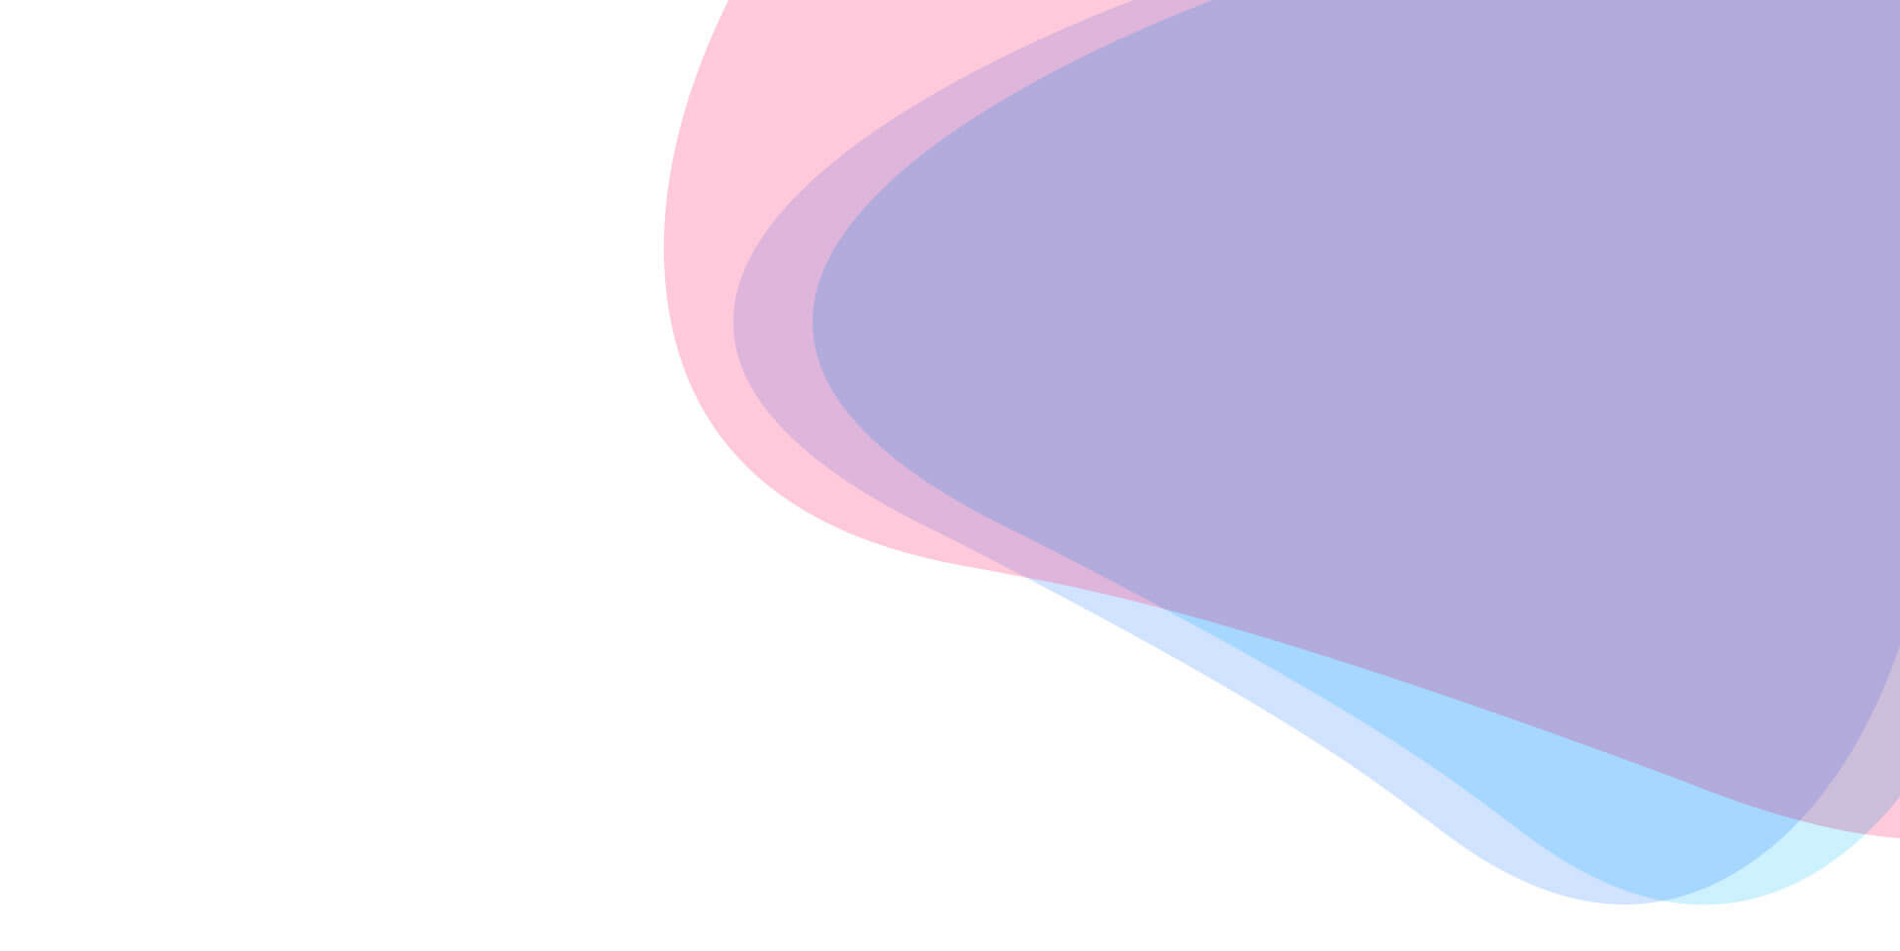
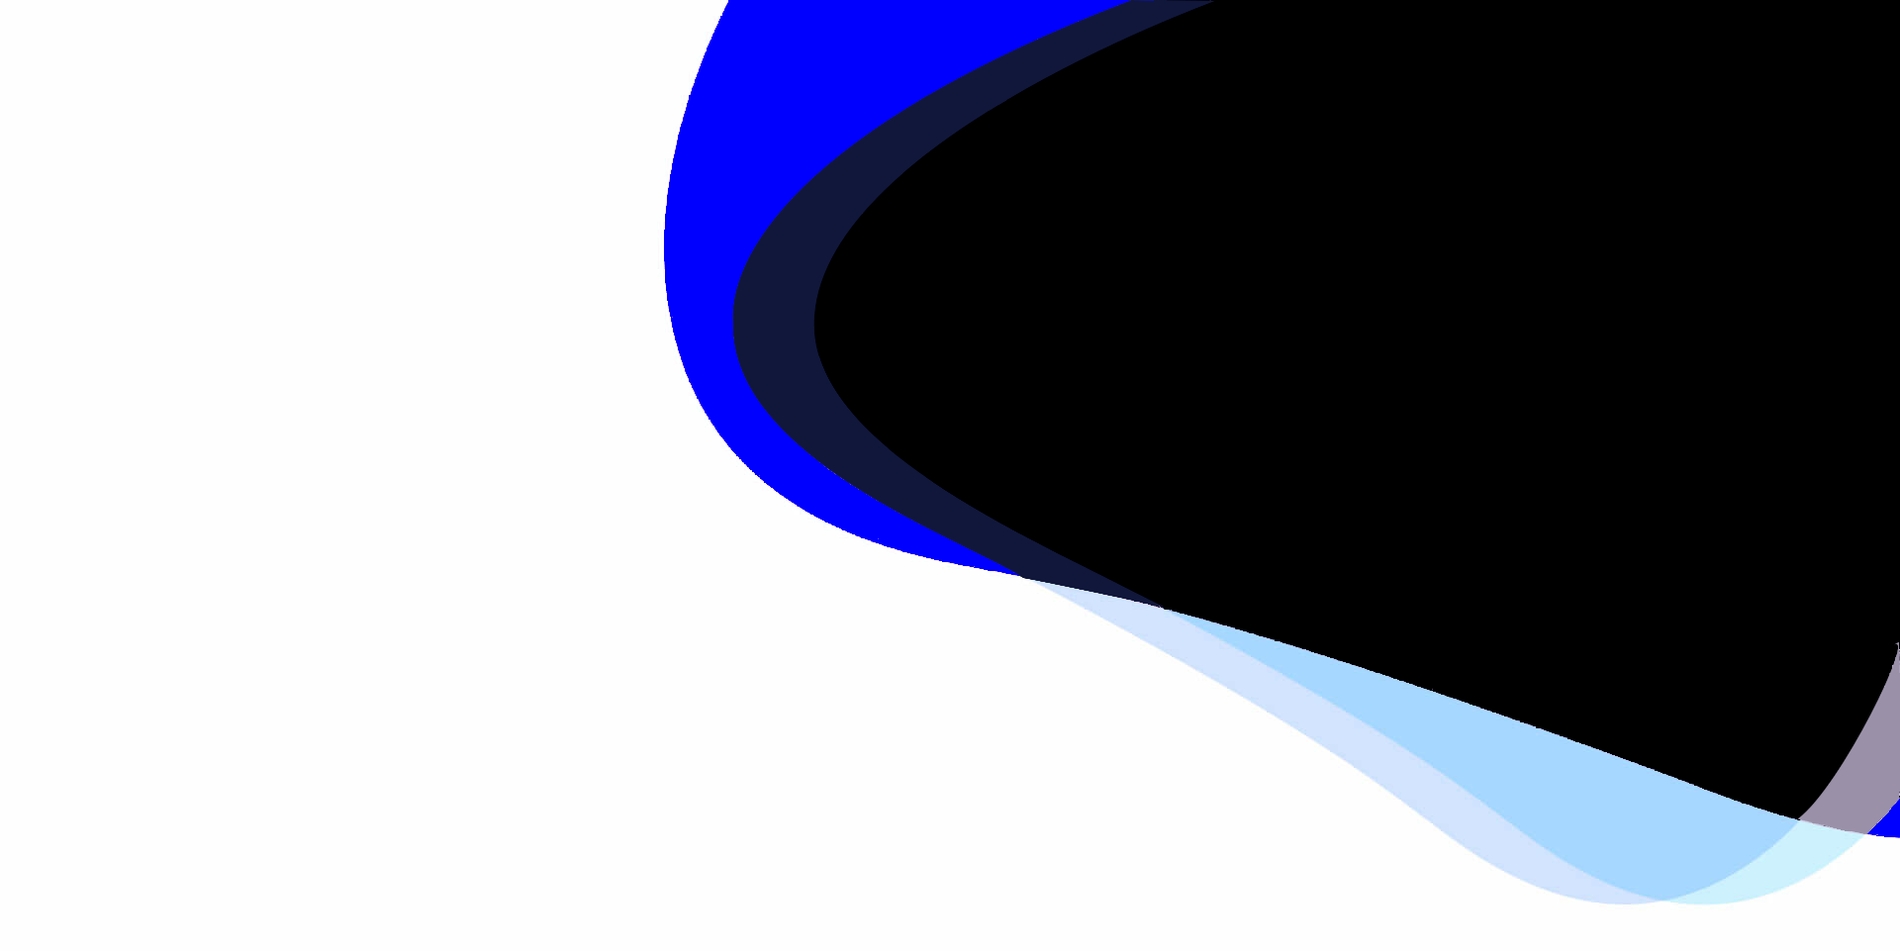
ultimate upload

diff --git a/index.html b/index.html
@@ -37,7 +37,7 @@
         <!--================Header Menu Area =================-->
         <header class="main_menu_area">
             <nav class="navbar navbar-expand-lg navbar-light bg-light">
-                <a class="navbar-brand" href="#"><img src="img/logo.png" width="130" height="43" alt=""></a>
+                <a class="navbar-brand" href="index.html"><img src="img/logo.png" width="130" height="43" alt=""></a>
                 <button class="navbar-toggler" type="button" data-toggle="collapse" data-target="#navbarSupportedContent" aria-controls="navbarSupportedContent" aria-expanded="false" aria-label="Toggle navigation">
                     <span></span>
                     <span></span>
@@ -46,9 +46,9 @@
 
                 <div class="collapse navbar-collapse" id="navbarSupportedContent">
                     <ul class="navbar-nav">
-                        <li class="nav-item active"><a class="nav-link" href="index.html">Inicio</a></li>
+                       
                         <li class="nav-item"><a class="nav-link" href="about-us.html">Nosotros</a></li>
-                        <li class="nav-item"><a class="nav-link" href="service.html">Servicios</a></li>
+                        <li class="nav-item"><a class="nav-link" href="service.html">Cursos</a></li>
                         <li class="nav-item"><a class="nav-link" href="portfolio.html">Portfolio</a></li>
                         <li class="nav-item dropdown submenu">
                             <a class="nav-link dropdown-toggle" href="#" id="navbarDropdown" role="button" data-toggle="dropdown" aria-haspopup="true" aria-expanded="false">
@@ -88,7 +88,7 @@
                             data-type="text" 
                             data-responsive_offset="on" 
                             data-frames="[{&quot;delay&quot;:10,&quot;speed&quot;:1500,&quot;frame&quot;:&quot;0&quot;,&quot;from&quot;:&quot;y:[-100%];z:0;rX:0deg;rY:0;rZ:0;sX:1;sY:1;skX:0;skY:0;&quot;,&quot;mask&quot;:&quot;x:0px;y:0px;s:inherit;e:inherit;&quot;,&quot;to&quot;:&quot;o:1;&quot;,&quot;ease&quot;:&quot;Power2.easeInOut&quot;},{&quot;delay&quot;:&quot;wait&quot;,&quot;speed&quot;:1500,&quot;frame&quot;:&quot;999&quot;,&quot;to&quot;:&quot;y:[175%];&quot;,&quot;mask&quot;:&quot;x:inherit;y:inherit;s:inherit;e:inherit;&quot;,&quot;ease&quot;:&quot;Power2.easeInOut&quot;}]"
-                            data-textAlign="['left','left','left','left','left','center']">Muestra tu Negocio<br />al Mundo</div>
+                            data-textAlign="['left','left','left','left','left','center']">Te preparamos<br />Para un mejor futuro</div>
                             
                             <div class="tp-caption tp-resizeme secand_text" 
                                 data-x="['left','left','left','left','15','center']" 
@@ -104,8 +104,7 @@
                                 data-responsive_offset="on"
                                 data-transform_idle="o:1;"
                                 data-frames="[{&quot;delay&quot;:10,&quot;speed&quot;:1500,&quot;frame&quot;:&quot;0&quot;,&quot;from&quot;:&quot;y:[100%];z:0;rX:0deg;rY:0;rZ:0;sX:1;sY:1;skX:0;skY:0;opacity:0;&quot;,&quot;mask&quot;:&quot;x:0px;y:[100%];s:inherit;e:inherit;&quot;,&quot;to&quot;:&quot;o:1;&quot;,&quot;ease&quot;:&quot;Power2.easeInOut&quot;},{&quot;delay&quot;:&quot;wait&quot;,&quot;speed&quot;:1500,&quot;frame&quot;:&quot;999&quot;,&quot;to&quot;:&quot;y:[175%];&quot;,&quot;mask&quot;:&quot;x:inherit;y:inherit;s:inherit;e:inherit;&quot;,&quot;ease&quot;:&quot;Power2.easeInOut&quot;}]"
-                                data-textAlign="['left','left','left','left','left','center']">
-                            </div>
+                                data-textAlign="['left','left','left','left','left','center']"></div>
                             
                             <div class="tp-caption tp-resizeme" 
                                 data-x="['left','left','left','left','15','center']" data-hoffset="['0','80','80','0']" 
@@ -119,7 +118,7 @@
                                 data-type="text" 
                                 data-responsive_offset="on" 
                                 data-frames="[{&quot;delay&quot;:10,&quot;speed&quot;:1500,&quot;frame&quot;:&quot;0&quot;,&quot;from&quot;:&quot;y:[100%];z:0;rX:0deg;rY:0;rZ:0;sX:1;sY:1;skX:0;skY:0;opacity:0;&quot;,&quot;mask&quot;:&quot;x:0px;y:[100%];s:inherit;e:inherit;&quot;,&quot;to&quot;:&quot;o:1;&quot;,&quot;ease&quot;:&quot;Power2.easeInOut&quot;},{&quot;delay&quot;:&quot;wait&quot;,&quot;speed&quot;:1500,&quot;frame&quot;:&quot;999&quot;,&quot;to&quot;:&quot;y:[175%];&quot;,&quot;mask&quot;:&quot;x:inherit;y:inherit;s:inherit;e:inherit;&quot;,&quot;ease&quot;:&quot;Power2.easeInOut&quot;}]">
-                                <a class="more_btn" href="#">Discover</a>
+                                
                             </div>
                             <div class="tp-caption tp-resizeme single_img" 
                             data-x="['right','right','right','right','right','right']" 
@@ -139,76 +138,7 @@
                             </div>
                         </div>
                     </li>
-                    <li data-index="rs-1588" data-transition="fade" data-slotamount="default" data-hideafterloop="0" data-hideslideonmobile="off"  data-easein="default" data-easeout="default" data-masterspeed="300" data-rotate="0"  data-saveperformance="off"  data-title="Creative" data-param1="01" data-param2="" data-param3="" data-param4="" data-param5="" data-param6="" data-param7="" data-param8="" data-param9="" data-param10="" data-description="">
-                    <!-- LAYERS -->
-                        <!-- LAYERS -->
-
-                        <!-- LAYER NR. 1 -->
-                        <div class="slider_text_box">
-                            <div class="tp-caption tp-resizeme first_text" 
-                            data-x="['left','left','left','left','15','center']" 
-                            data-hoffset="['0','80','80','0']" 
-                            data-y="['top','top','top','top']" 
-                            data-voffset="['400','400','400','250','180','180']" 
-                            data-fontsize="['72','72','72','50','50','30']"
-                            data-lineheight="['82','82','82','62','62','42']"
-                            data-width="['none']"
-                            data-height="none"
-                            data-whitespace="nowrape"
-                            data-type="text" 
-                            data-responsive_offset="on" 
-                            data-frames="[{&quot;delay&quot;:10,&quot;speed&quot;:1500,&quot;frame&quot;:&quot;0&quot;,&quot;from&quot;:&quot;y:[-100%];z:0;rX:0deg;rY:0;rZ:0;sX:1;sY:1;skX:0;skY:0;&quot;,&quot;mask&quot;:&quot;x:0px;y:0px;s:inherit;e:inherit;&quot;,&quot;to&quot;:&quot;o:1;&quot;,&quot;ease&quot;:&quot;Power2.easeInOut&quot;},{&quot;delay&quot;:&quot;wait&quot;,&quot;speed&quot;:1500,&quot;frame&quot;:&quot;999&quot;,&quot;to&quot;:&quot;y:[175%];&quot;,&quot;mask&quot;:&quot;x:inherit;y:inherit;s:inherit;e:inherit;&quot;,&quot;ease&quot;:&quot;Power2.easeInOut&quot;}]"
-                            data-textAlign="['left','left','left','left','left','center']">Diseños <br />Personalizados</div>
-                            
-                            <div class="tp-caption tp-resizeme secand_text" 
-                                data-x="['left','left','left','left','15','center']" 
-                                data-hoffset="['0','80','80','0']" 
-                                data-y="['top','top','top','top']" 
-                                data-voffset="['575','575','575','400','320','300']"  
-                                data-fontsize="['24','24','24','18','16','16']"
-                                data-lineheight="['36','36','36','26','26','26']"
-                                data-width="['none','none','none','none','none']"
-                                data-height="none"
-                                data-whitespace="nowrape"
-                                data-type="text" 
-                                data-responsive_offset="on"
-                                data-transform_idle="o:1;"
-                                data-frames="[{&quot;delay&quot;:10,&quot;speed&quot;:1500,&quot;frame&quot;:&quot;0&quot;,&quot;from&quot;:&quot;y:[100%];z:0;rX:0deg;rY:0;rZ:0;sX:1;sY:1;skX:0;skY:0;opacity:0;&quot;,&quot;mask&quot;:&quot;x:0px;y:[100%];s:inherit;e:inherit;&quot;,&quot;to&quot;:&quot;o:1;&quot;,&quot;ease&quot;:&quot;Power2.easeInOut&quot;},{&quot;delay&quot;:&quot;wait&quot;,&quot;speed&quot;:1500,&quot;frame&quot;:&quot;999&quot;,&quot;to&quot;:&quot;y:[175%];&quot;,&quot;mask&quot;:&quot;x:inherit;y:inherit;s:inherit;e:inherit;&quot;,&quot;ease&quot;:&quot;Power2.easeInOut&quot;}]"
-                                data-textAlign="['left','left','left','left','left','center']">
-                            </div>
-                            
-                            <div class="tp-caption tp-resizeme" 
-                                data-x="['left','left','left','left','15','center']" data-hoffset="['0','80','80','0']" 
-                                data-y="['top','top','top','top']" 
-                                data-voffset="['670','670','670','480','370','350']" 
-                                data-fontsize="['14','14','14','14']"
-                                data-lineheight="['46','46','46','46']"
-                                data-width="none"
-                                data-height="none"
-                                data-whitespace="nowrap"
-                                data-type="text" 
-                                data-responsive_offset="on" 
-                                data-frames="[{&quot;delay&quot;:10,&quot;speed&quot;:1500,&quot;frame&quot;:&quot;0&quot;,&quot;from&quot;:&quot;y:[100%];z:0;rX:0deg;rY:0;rZ:0;sX:1;sY:1;skX:0;skY:0;opacity:0;&quot;,&quot;mask&quot;:&quot;x:0px;y:[100%];s:inherit;e:inherit;&quot;,&quot;to&quot;:&quot;o:1;&quot;,&quot;ease&quot;:&quot;Power2.easeInOut&quot;},{&quot;delay&quot;:&quot;wait&quot;,&quot;speed&quot;:1500,&quot;frame&quot;:&quot;999&quot;,&quot;to&quot;:&quot;y:[175%];&quot;,&quot;mask&quot;:&quot;x:inherit;y:inherit;s:inherit;e:inherit;&quot;,&quot;ease&quot;:&quot;Power2.easeInOut&quot;}]">
-                                <a class="more_btn" href="#">Discover</a>
-                            </div>
-                            <div class="tp-caption tp-resizeme single_img" 
-                            data-x="['right','right','right','right','right','right']" 
-                            data-hoffset="['0','0','0','0']" 
-                            data-y="['top','top','top','top']" 
-                            data-voffset="['180','180','180','180','0']" 
-                            data-fontsize="['65','65','60','40','25']"
-                            data-lineheight="['75','75','75','50','35']"
-                            data-width="['485','485','485','485','485']"
-                            data-height="none"
-                            data-whitespace="normal"
-                            data-type="text" 
-                            data-responsive_offset="on" 
-                            data-frames="[{&quot;delay&quot;:10,&quot;speed&quot;:1500,&quot;frame&quot;:&quot;0&quot;,&quot;from&quot;:&quot;y:[-100%];z:0;rX:0deg;rY:0;rZ:0;sX:1;sY:1;skX:0;skY:0;&quot;,&quot;mask&quot;:&quot;x:0px;y:0px;s:inherit;e:inherit;&quot;,&quot;to&quot;:&quot;o:1;&quot;,&quot;ease&quot;:&quot;Power2.easeInOut&quot;},{&quot;delay&quot;:&quot;wait&quot;,&quot;speed&quot;:1500,&quot;frame&quot;:&quot;999&quot;,&quot;to&quot;:&quot;y:[175%];&quot;,&quot;mask&quot;:&quot;x:inherit;y:inherit;s:inherit;e:inherit;&quot;,&quot;ease&quot;:&quot;Power2.easeInOut&quot;}]"
-                            data-textAlign="['left','left','left','left','left','center']">
-                                <img src="img/home-slider/slider-m-1.png" alt="">
-                            </div>
-                        </div>
-                    </li>
+    
                     <li data-index="rs-1589" data-transition="fade" data-slotamount="default" data-hideafterloop="0" data-hideslideonmobile="off"  data-easein="default" data-easeout="default" data-masterspeed="300" data-rotate="0"  data-saveperformance="off"  data-title="Creative" data-param1="01" data-param2="" data-param3="" data-param4="" data-param5="" data-param6="" data-param7="" data-param8="" data-param9="" data-param10="" data-description="">
                     <!-- LAYERS -->
                         <!-- LAYERS -->
@@ -228,7 +158,7 @@
                             data-type="text" 
                             data-responsive_offset="on" 
                             data-frames="[{&quot;delay&quot;:10,&quot;speed&quot;:1500,&quot;frame&quot;:&quot;0&quot;,&quot;from&quot;:&quot;y:[-100%];z:0;rX:0deg;rY:0;rZ:0;sX:1;sY:1;skX:0;skY:0;&quot;,&quot;mask&quot;:&quot;x:0px;y:0px;s:inherit;e:inherit;&quot;,&quot;to&quot;:&quot;o:1;&quot;,&quot;ease&quot;:&quot;Power2.easeInOut&quot;},{&quot;delay&quot;:&quot;wait&quot;,&quot;speed&quot;:1500,&quot;frame&quot;:&quot;999&quot;,&quot;to&quot;:&quot;y:[175%];&quot;,&quot;mask&quot;:&quot;x:inherit;y:inherit;s:inherit;e:inherit;&quot;,&quot;ease&quot;:&quot;Power2.easeInOut&quot;}]"
-                            data-textAlign="['left','left','left','left','left','center']">Brindamos la Mejor<br />Educación</div>
+                            data-textAlign="['left','left','left','left','left','center']"><br />Educación</div>
                             
                             <div class="tp-caption tp-resizeme secand_text" 
                                 data-x="['left','left','left','left','15','center']" 
@@ -259,7 +189,7 @@
                                 data-type="text" 
                                 data-responsive_offset="on" 
                                 data-frames="[{&quot;delay&quot;:10,&quot;speed&quot;:1500,&quot;frame&quot;:&quot;0&quot;,&quot;from&quot;:&quot;y:[100%];z:0;rX:0deg;rY:0;rZ:0;sX:1;sY:1;skX:0;skY:0;opacity:0;&quot;,&quot;mask&quot;:&quot;x:0px;y:[100%];s:inherit;e:inherit;&quot;,&quot;to&quot;:&quot;o:1;&quot;,&quot;ease&quot;:&quot;Power2.easeInOut&quot;},{&quot;delay&quot;:&quot;wait&quot;,&quot;speed&quot;:1500,&quot;frame&quot;:&quot;999&quot;,&quot;to&quot;:&quot;y:[175%];&quot;,&quot;mask&quot;:&quot;x:inherit;y:inherit;s:inherit;e:inherit;&quot;,&quot;ease&quot;:&quot;Power2.easeInOut&quot;}]">
-                                <a class="more_btn" href="#">Discover</a>
+                                
                             </div>
                             <div class="tp-caption tp-resizeme single_img" 
                             data-x="['right','right','right','right','right','right']" 
@@ -285,47 +215,7 @@
         <!--================End Slider Area =================-->
         
         <!--================Feature Area =================-->
-        <section class="feature_area">
-            <div class="container">
-                <div class="c_title">
-                    <img src="img/icon/title-icon.png" alt="">
-                    <h6>Descubre nuestras características</h6>
-                    <h2>Somos jóvenes pero audaces</h2>
-                </div>
-                <div class="row feature_inner">
-                    <div class="col-lg-4 col-sm-6">
-                        <div class="feature_item">
-                            <div class="f_icon">
-                                <img src="img/icon/f-icon-1.png" alt="">
-                            </div>
-                            <h4>Identidad de marca</h4>
-                            <p>Creamos la solución integral de todo un proceso creativo, desde su inicio hasta la exposición final de tu marca. </p>
-                            <a class="more_btn" href="#">Read More</a>
-                        </div>
-                    </div>
-                    <div class="col-lg-4 col-sm-6">
-                        <div class="feature_item">
-                            <div class="f_icon">
-                                <img src="img/icon/f-icon-2.png" alt="">
-                            </div>
-                            <h4>Cursos full stack</h4>
-                            <p>Brindamos la mejor educación con los mejores mentores, para que puedas convertirte en Full Stack Developer.</p>
-                            <a class="more_btn" href="#">Read More</a>
-                        </div>
-                    </div>
-                    <div class="col-lg-4 col-sm-6">
-                        <div class="feature_item">
-                            <div class="f_icon">
-                                <img src="img/icon/f-icon-3.png" alt="">
-                            </div>
-                            <h4>Social Media</h4>
-                            <p>Diseñamos estrategias para que tus perfiles impulsen tu marca y por lo tanto tus ventas. </p>
-                            <a class="more_btn" href="#">Read More</a>
-                        </div>
-                    </div>
-                </div>
-            </div>
-        </section>
+       
         <!--================End Feature Area =================-->
         
         <!--================The best slider Area =================-->

diff --git a/css/style.css b/css/style.css
@@ -1,39 +1,4 @@
-/*----------------------------------------------------
-@File: Default Styles
-@Author: Rocky
-@URL: http://wethemez.com
-Author E-mail: rockybd1995@gmail.com
 
-This file contains the styling for the actual theme, this
-is the file you need to edit to change the look of the
-theme.
----------------------------------------------------- */
-/*=====================================================================
-@Template Name: Cerative Agency
-@Author: Rocky
-@Developed By: Rocky
-@Developer URL: http://rocky.wethemez.com
-Author E-mail: rockybd1995@gmail.com
-
-@Default Styles
-
-Table of Content:
-01/ Variables
-02/ predefin
-03/ header
-04/ banner
-05/ slider
-06/ feature
-07/ button
-08/ service
-09/ testimonials 
-10/ blog 
-11/ contact 
-12/ footer 
-=====================================================================*/
-/*----------------------------------------------------*/
-/*font Variables*/
-/*Color Variables*/
 @import url("https://fonts.googleapis.com/css?family=Roboto:300,300i,400,400i,500,500i,700,900");
 @import url("https://fonts.googleapis.com/css?family=Open+Sans:300,300i,400,400i,600,600i,700");
 .col-md-offset-right-1, .col-lg-offset-right-1 {
@@ -289,7 +254,7 @@ i:before {
 }
 
 .main_menu_area .navbar .navbar-nav li.submenu .dropdown-menu li:hover a {
-  color: #97ccfe;
+  color: #002fff;
 }
 
 @media (min-width: 992px) {
@@ -302,7 +267,7 @@ i:before {
 }
 
 .main_menu_area .navbar .navbar-nav li:hover a, .main_menu_area .navbar .navbar-nav li.active a {
-  color: #0b1033;
+  color: #a5acf7;
 }
 
 .main_menu_area.navbar_fixed {
@@ -395,11 +360,11 @@ i:before {
 
 .main_slider_area .rev_slider .tp-revslider-mainul li .slider_text_box .first_text {
   font-weight: normal !important;
-  color: #0b1033;
+  color: #383838;
 }
 
 .main_slider_area .rev_slider .tp-revslider-mainul li .slider_text_box .secand_text {
-  color: #6b7d8e;
+  color: #080808;
 }
 
 .main_slider_area .rev_slider .tp-revslider-mainul li .slider_text_box .more_btn {
@@ -421,19 +386,19 @@ i:before {
 }
 
 .main_slider_area .rev_slider .tp-bullets .tp-bullet.selected {
-  background: #97cdfe;
-  border-color: #97cdfe;
+  background: #fe97c7;
+  border-color: #fe97ad;
 }
 
 .main_slider_area .rev_slider .tp-leftarrow, .main_slider_area .rev_slider .tp-rightarrow {
   height: 120px;
-  background-image: -webkit-gradient(linear, left top, right top, from(#70bafe), color-stop(51%, #998dff), to(#70bafe));
-  background-image: -webkit-linear-gradient(left, #70bafe 0%, #998dff 51%, #70bafe 100%);
-  background-image: -o-linear-gradient(left, #70bafe 0%, #998dff 51%, #70bafe 100%);
-  background-image: linear-gradient(to right, #70bafe 0%, #998dff 51%, #70bafe 100%);
+  background-image: -webkit-gradient(linear, left top, right top, from(#0000ff), color-stop(51%, #11173b), to(#000000));
+  background-image: -webkit-linear-gradient(left, #0000ff 0%, #11173b 51%, #000000 100%);
+  background-image: -o-linear-gradient(left, #0000ff 0%, #11173b 51%, #000000 100%);
+  background-image: linear-gradient(to right, #0000ff 0%, #11173b 51%, #000000 100%);
   background-size: 200% auto;
-  width: 138px;
-  border: 10px solid rgba(204, 241, 255, 0.5);
+  width: 90px;
+  border: 10px solid rgba(65, 23, 252, 0.5);
   -webkit-transition: all 400ms ease-out;
   -o-transition: all 400ms ease-out;
   transition: all 400ms ease-out;
@@ -1263,10 +1228,10 @@ i:before {
 ============================================================================================ */
 .more_btn {
   padding: 0px 46px;
-  background-image: -webkit-gradient(linear, left top, right top, from(#6fbcfe), color-stop(51%, #998dff), to(#6fbcfe));
-  background-image: -webkit-linear-gradient(left, #6fbcfe 0%, #998dff 51%, #6fbcfe 100%);
-  background-image: -o-linear-gradient(left, #6fbcfe 0%, #998dff 51%, #6fbcfe 100%);
-  background-image: linear-gradient(to right, #6fbcfe 0%, #998dff 51%, #6fbcfe 100%);
+  background-image: -webkit-gradient(linear, left top, right top, from(#0000ff), color-stop(51%, #11173b), to(#000000));
+  background-image: -webkit-linear-gradient(left, #0000ff 0%, #11173b 51%, #000000 100%);
+  background-image: -o-linear-gradient(left, #0000ff 0%, #11173b 51%, #000000 100%);
+  background-image: linear-gradient(to right, #0000ff 0%, #11173b 51%, #000000 100%);
   background-size: 200% auto;
   z-index: 2;
   display: inline-block;
@@ -1278,7 +1243,7 @@ i:before {
   font-size: 15px;
   font-family: "Roboto", sans-serif;
   line-height: 55px;
-  border: 6px solid rgba(204, 241, 255, 0.5);
+  border: 6px solid rgba(65, 23, 252, 0.5);
   border-radius: 33px;
 }
 
@@ -1288,10 +1253,10 @@ i:before {
 }
 
 .submit_btn {
-  background-image: -webkit-gradient(linear, left top, right top, from(#70bafe), color-stop(51%, #998dff), to(#70bafe));
-  background-image: -webkit-linear-gradient(left, #70bafe 0%, #998dff 51%, #70bafe 100%);
-  background-image: -o-linear-gradient(left, #70bafe 0%, #998dff 51%, #70bafe 100%);
-  background-image: linear-gradient(to right, #70bafe 0%, #998dff 51%, #70bafe 100%);
+  background-image: -webkit-gradient(linear, left top, right top, from(#0000ff), color-stop(51%, #11173b), to(#000000));
+  background-image: -webkit-linear-gradient(left, #0000ff 0%, #11173b 51%, #000000 100%);
+  background-image: -o-linear-gradient(left, #0000ff 0%, #11173b 51%, #000000 100%);
+  background-image: linear-gradient(to right, #0000ff 0%, #11173b 51%, #000000 100%);
   background-size: 200% auto;
   z-index: 2;
   width: 176px;
@@ -1308,7 +1273,7 @@ i:before {
   font-size: 15px;
   font-family: "Roboto", sans-serif;
   line-height: 58px;
-  border: 6px solid rgba(204, 241, 255, 0.5);
+  border: 6px solid rgba(65, 23, 252, 0.5);
   border-radius: 33px;
 }
 
